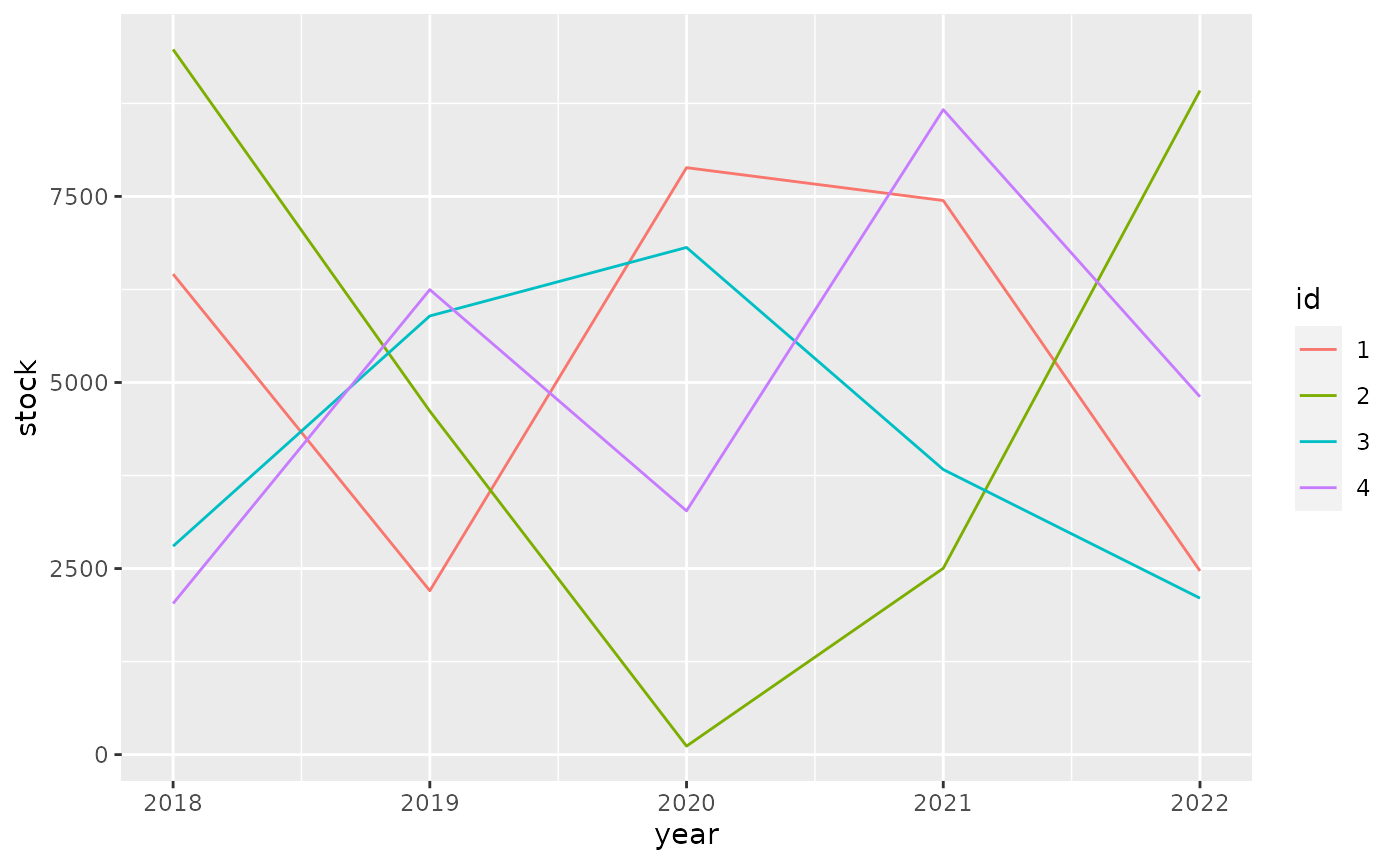
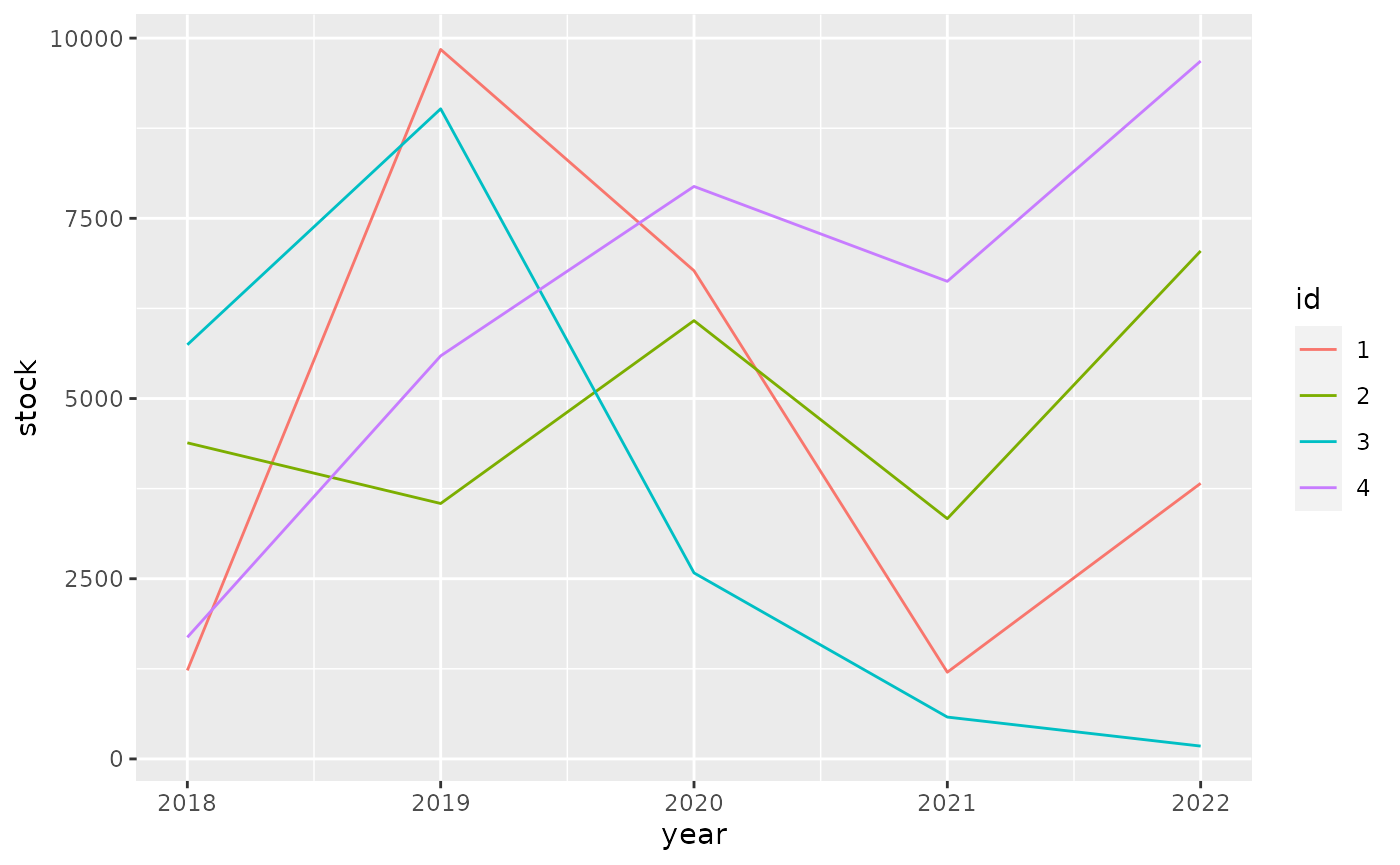
Built site for tibble: 3.0.5@6d595dd

diff --git a/articles/formats.html b/articles/formats.html
@@ -219,10 +219,10 @@
 <span class="co">#&gt; # A tibble: 4 x 6</span>
 <span class="co">#&gt;   id       `2018`    `2019`    `2020`    `2021`    `2022`</span>
 <span class="co">#&gt;   &lt;fct&gt; &lt;dbl:fmt&gt; &lt;dbl:fmt&gt; &lt;dbl:fmt&gt; &lt;dbl:fmt&gt; &lt;dbl:fmt&gt;</span>
-<span class="co">#&gt; 1 1     $6,456.36 $2,201.74 $7,886.30 $7,444.84 $2,468.00</span>
-<span class="co">#&gt; 2 2     $9,474.83 $4,614.68   $114.36 $2,503.37 $8,922.09</span>
-<span class="co">#&gt; 3 3     $2,800.49 $5,893.87 $6,814.36 $3,830.66 $2,101.95</span>
-<span class="co">#&gt; 4 4     $2,029.91 $6,247.62 $3,275.28 $8,665.87 $4,808.03</span></code></pre></div>
+<span class="co">#&gt; 1 1     $1,227.96 $9,842.98 $6,772.93 $1,202.96 $3,823.41</span>
+<span class="co">#&gt; 2 2     $4,385.30 $3,543.77 $6,080.70 $3,333.49 $7,047.09</span>
+<span class="co">#&gt; 3 3     $5,745.87 $9,019.26 $2,580.91   $580.67   $177.93</span>
+<span class="co">#&gt; 4 4     $1,687.43 $5,591.73 $7,942.43 $6,625.93 $9,682.07</span></code></pre></div>
 <p>For ggplot2 we need to do <a href="https://github.com/tidyverse/ggplot2/pull/4065">some work</a> to show apply the formatting to the scales.</p>
 <div class="sourceCode" id="cb6"><pre class="downlit sourceCode r">
 <code class="sourceCode R"><span class="kw"><a href="https://rdrr.io/r/base/library.html">library</a></span><span class="op">(</span><span class="va"><a href="https://ggplot2.tidyverse.org">ggplot2</a></span><span class="op">)</span>
@@ -233,10 +233,10 @@
   <span class="fu"><a href="https://ggplot2.tidyverse.org/reference/geom_path.html">geom_line</a></span><span class="op">(</span><span class="op">)</span></code></pre></div>
 <p><img src="formats_files/figure-html/unnamed-chunk-7-1.png" width="700"></p>
 <p>It pays off to specify formatting very early in the process. The diagram below shows the principal stages of data analysis and exploration from “R for data science”.</p>
-<div id="htmlwidget-5e055d3ef9587b02654d" style="width:700px;height:432.632880098888px;" class="DiagrammeR html-widget"></div>
-<script type="application/json" data-for="htmlwidget-5e055d3ef9587b02654d">{"x":{"diagram":"graph TD\n  Import --> Tidy\n  Tidy --> Transform\n  Transform --> Visualize\n  Visualize --> Communicate\n  Visualize --> Model\n  Model -.-> Transform"},"evals":[],"jsHooks":[]}</script><p>The subsequent diagram adds data formats, communication options, and explicit data formatting. The original r4ds transitions are highlighted in bold. There are two principal options where to apply formatting for results: right before communicating them, or right after importing.</p>
-<div id="htmlwidget-a0deaa4b5ee019d0b9a2" style="width:700px;height:432.632880098888px;" class="DiagrammeR html-widget"></div>
-<script type="application/json" data-for="htmlwidget-a0deaa4b5ee019d0b9a2">{"x":{"diagram":"graph TD\n  .csv --> Import\n  API --> Import\n  DBI --> Import\n  dbplyr --> Import\n  Import -.-> Format[Format for analysis]\n  Format -.-> Tidy\n\n  subgraph r4ds\n  Import ==> Tidy\n  Tidy ==> Transform\n  Transform ==> Visualize\n  Visualize ==> Model\n  Model -.-> Transform\n  Visualize ==> Communicate\n  end\n\n  Visualize -.-> FormatComm[Format for communication]\n  FormatComm -.-> Communicate\n\n  FormatComm -- Apply formatting early --> Format\n\n  dbplyr -.-> Tidy\n  dbplyr -.-> Transform\n  dbplyr -.-> Visualize\n\n  Communicate --> gt\n  Communicate --> ggplot2\n  Communicate --> DT\n  Communicate --> plotly"},"evals":[],"jsHooks":[]}</script><p>Applying formatting early in the process gives the added benefit of showing the data in a useful format during the “Tidy”, “Transform”, and “Visualize” stages. For this to be useful, we need to ensure that the formatting options applied early:</p>
+<div id="htmlwidget-e64b099b8c7e271b5b29" style="width:700px;height:432.632880098888px;" class="DiagrammeR html-widget"></div>
+<script type="application/json" data-for="htmlwidget-e64b099b8c7e271b5b29">{"x":{"diagram":"graph TD\n  Import --> Tidy\n  Tidy --> Transform\n  Transform --> Visualize\n  Visualize --> Communicate\n  Visualize --> Model\n  Model -.-> Transform"},"evals":[],"jsHooks":[]}</script><p>The subsequent diagram adds data formats, communication options, and explicit data formatting. The original r4ds transitions are highlighted in bold. There are two principal options where to apply formatting for results: right before communicating them, or right after importing.</p>
+<div id="htmlwidget-35c9d332626f38608533" style="width:700px;height:432.632880098888px;" class="DiagrammeR html-widget"></div>
+<script type="application/json" data-for="htmlwidget-35c9d332626f38608533">{"x":{"diagram":"graph TD\n  .csv --> Import\n  API --> Import\n  DBI --> Import\n  dbplyr --> Import\n  Import -.-> Format[Format for analysis]\n  Format -.-> Tidy\n\n  subgraph r4ds\n  Import ==> Tidy\n  Tidy ==> Transform\n  Transform ==> Visualize\n  Visualize ==> Model\n  Model -.-> Transform\n  Visualize ==> Communicate\n  end\n\n  Visualize -.-> FormatComm[Format for communication]\n  FormatComm -.-> Communicate\n\n  FormatComm -- Apply formatting early --> Format\n\n  dbplyr -.-> Tidy\n  dbplyr -.-> Transform\n  dbplyr -.-> Visualize\n\n  Communicate --> gt\n  Communicate --> ggplot2\n  Communicate --> DT\n  Communicate --> plotly"},"evals":[],"jsHooks":[]}</script><p>Applying formatting early in the process gives the added benefit of showing the data in a useful format during the “Tidy”, “Transform”, and “Visualize” stages. For this to be useful, we need to ensure that the formatting options applied early:</p>
 <ul>
 <li>give a good user experience for analysis
 <ul>

diff --git a/articles/types.html b/articles/types.html
@@ -349,7 +349,7 @@
 #&gt; $ factor        &lt;fct&gt; A
 #&gt; $ ordered       &lt;ord&gt; a
 #&gt; $ Date          &lt;date&gt; 2021-01-08
-#&gt; $ POSIXt        &lt;dttm&gt; 2021-01-08 06:19:51
+#&gt; $ POSIXt        &lt;dttm&gt; 2021-01-08 07:29:11
 #&gt; $ difftime      &lt;drtn&gt; 1 secs
 #&gt; $ hms           &lt;time&gt; 00:00:01
 #&gt; $ integer64     &lt;int64&gt; 10000000000
@@ -379,7 +379,7 @@
 <span class="co">#&gt;             "sym"</span>
 <span class="co">#&gt;         }, typeof(x))</span>
 <span class="co">#&gt; }</span>
-<span class="co">#&gt; &lt;bytecode: 0x55ab0d11f7f0&gt;</span>
+<span class="co">#&gt; &lt;bytecode: 0x559b563387f0&gt;</span>
 <span class="co">#&gt; &lt;environment: namespace:pillar&gt;</span></code></pre></div>
 </div>
   </div>
